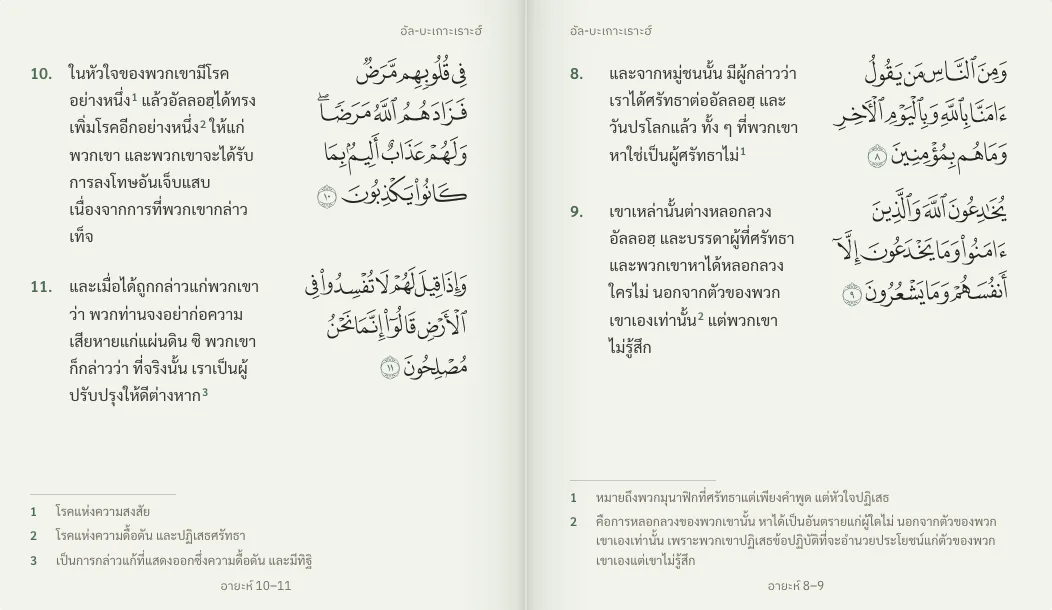
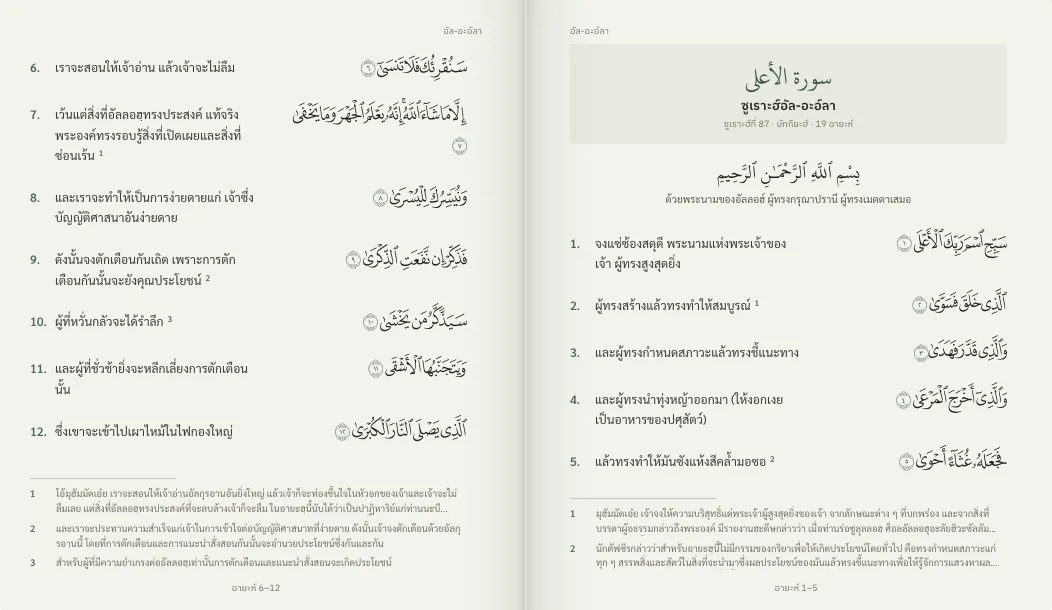
feat: use a dense juz 30 spread for the reader tour layout snapshots

diff --git a/app/composables/useReaderTour.ts b/app/composables/useReaderTour.ts
@@ -135,14 +135,14 @@ export function readerTourSteps(layout: ReaderLayout, verseTapWorks: boolean, mo
       body: `สลับระหว่าง${LAYOUT_INFO.mushaf.title}และ${LAYOUT_INFO.book.title}ได้ที่ปุ่มนี้ มาดูตัวอย่างแต่ละแบบกัน`
         + (mouse ? ' ภายหลังชี้ที่ปุ่มเพื่อดูคำอธิบายได้อีกครั้ง' : ''),
     },
-    // Snapshots of Mushaf pages 3–4: full pages show both layouts as they read. The bilingual
-    // one uses King Fahd (source 3), whose footnotes are what this layout is suited to
+    // Snapshots of Mushaf pages 591–592 (juz 30), from the opening of Al-Aʿlā: short ayahs fill
+    // both pages. The bilingual one uses King Fahd (source 3), whose footnotes are what it is suited to
     {
       since: '1.32.0',
       target: 'mode',
       title: LAYOUT_INFO.mushaf.title,
       body: LAYOUT_INFO.mushaf.body,
-      image: { src: '/tour/layout-mushaf.webp', alt: 'ตัวอย่างหน้ามุศฮัฟ 3–4 พร้อมคำแปลข้างหน้า' },
+      image: { src: '/tour/layout-mushaf.webp', alt: 'ตัวอย่างหน้ามุศฮัฟ 591–592 พร้อมคำแปลข้างหน้า' },
     },
     {
       since: '1.32.0',
